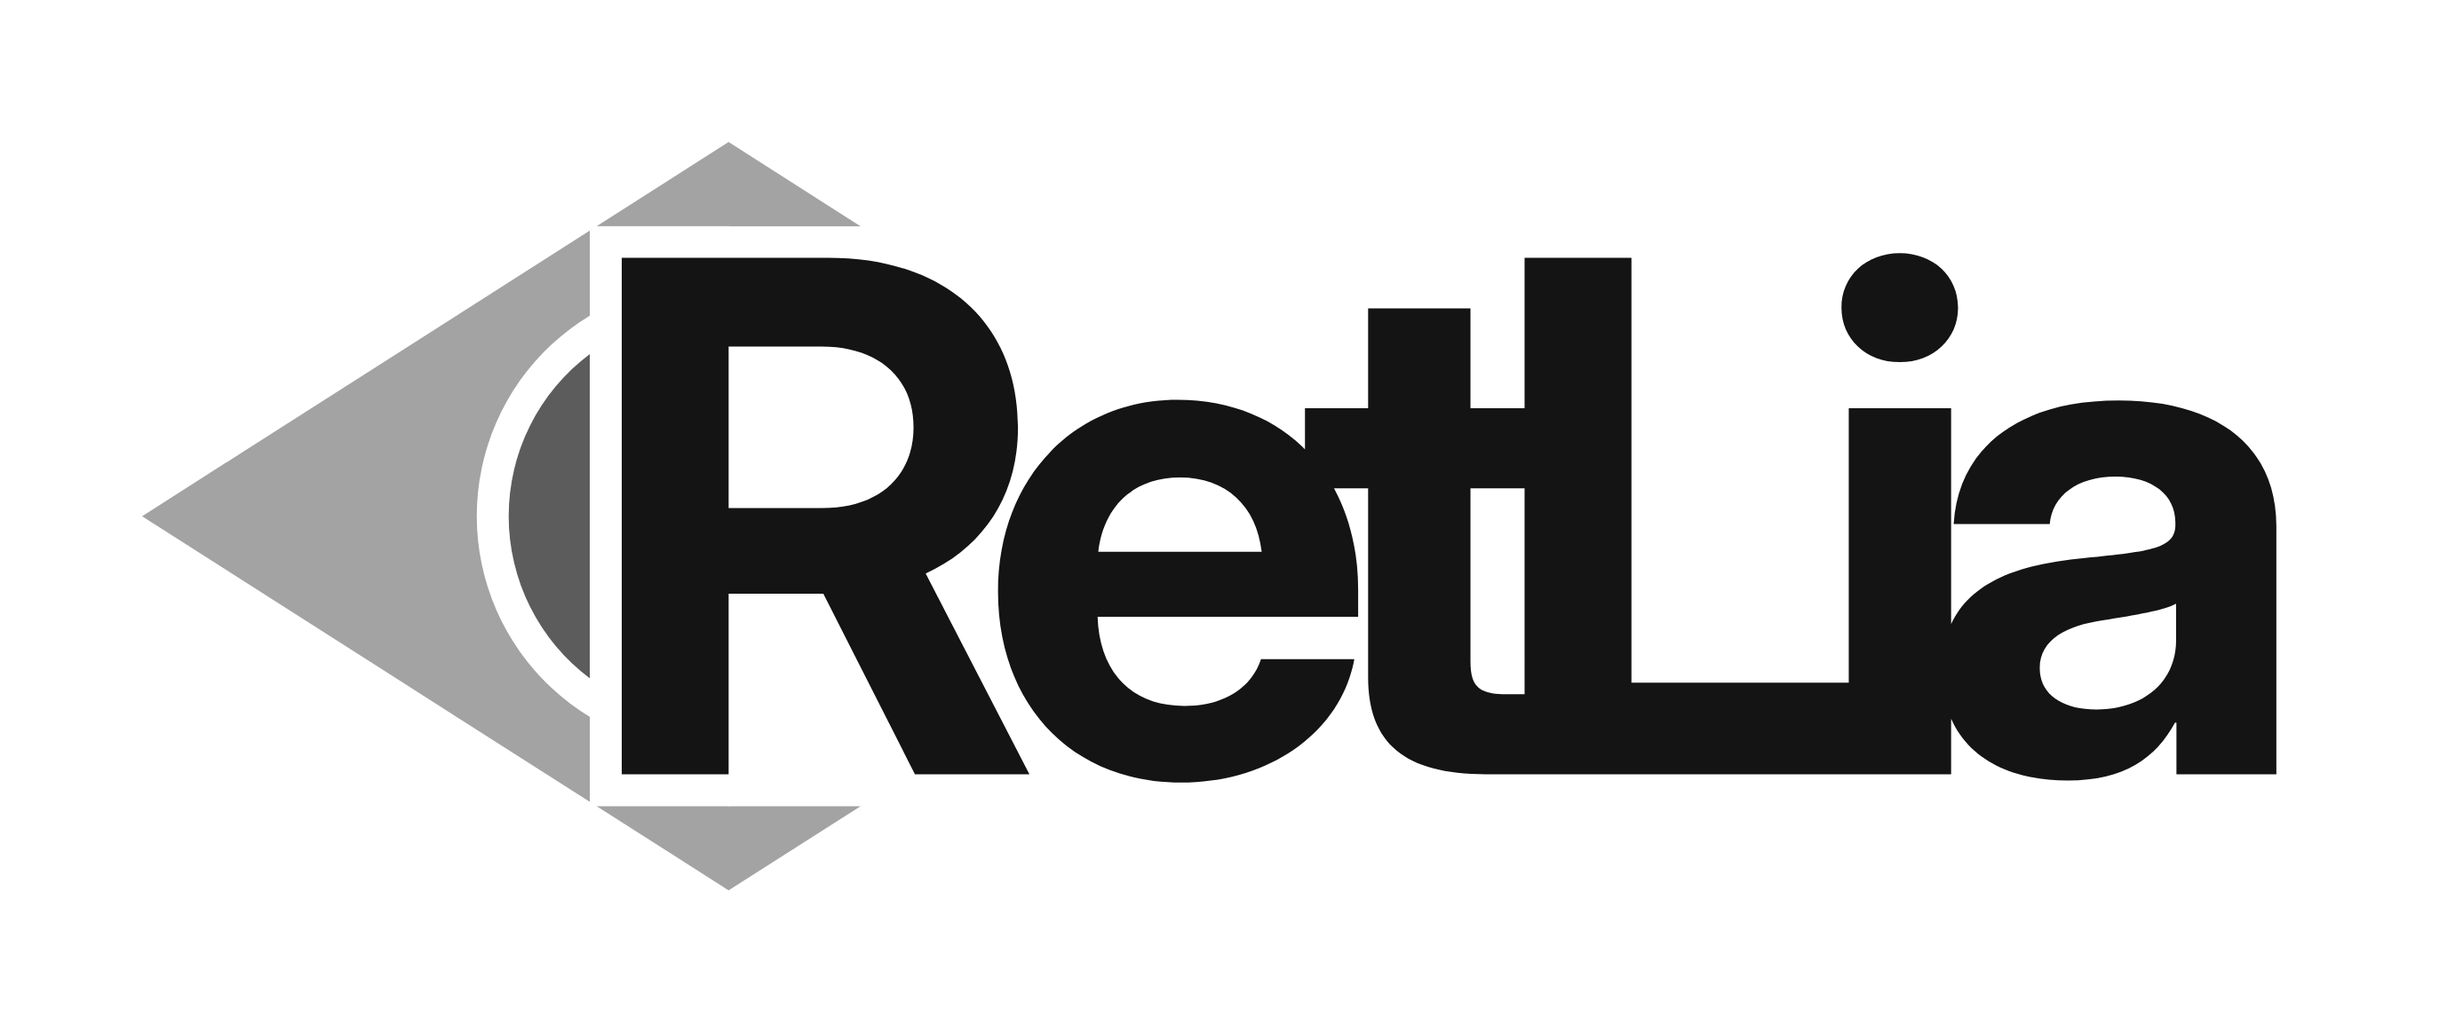
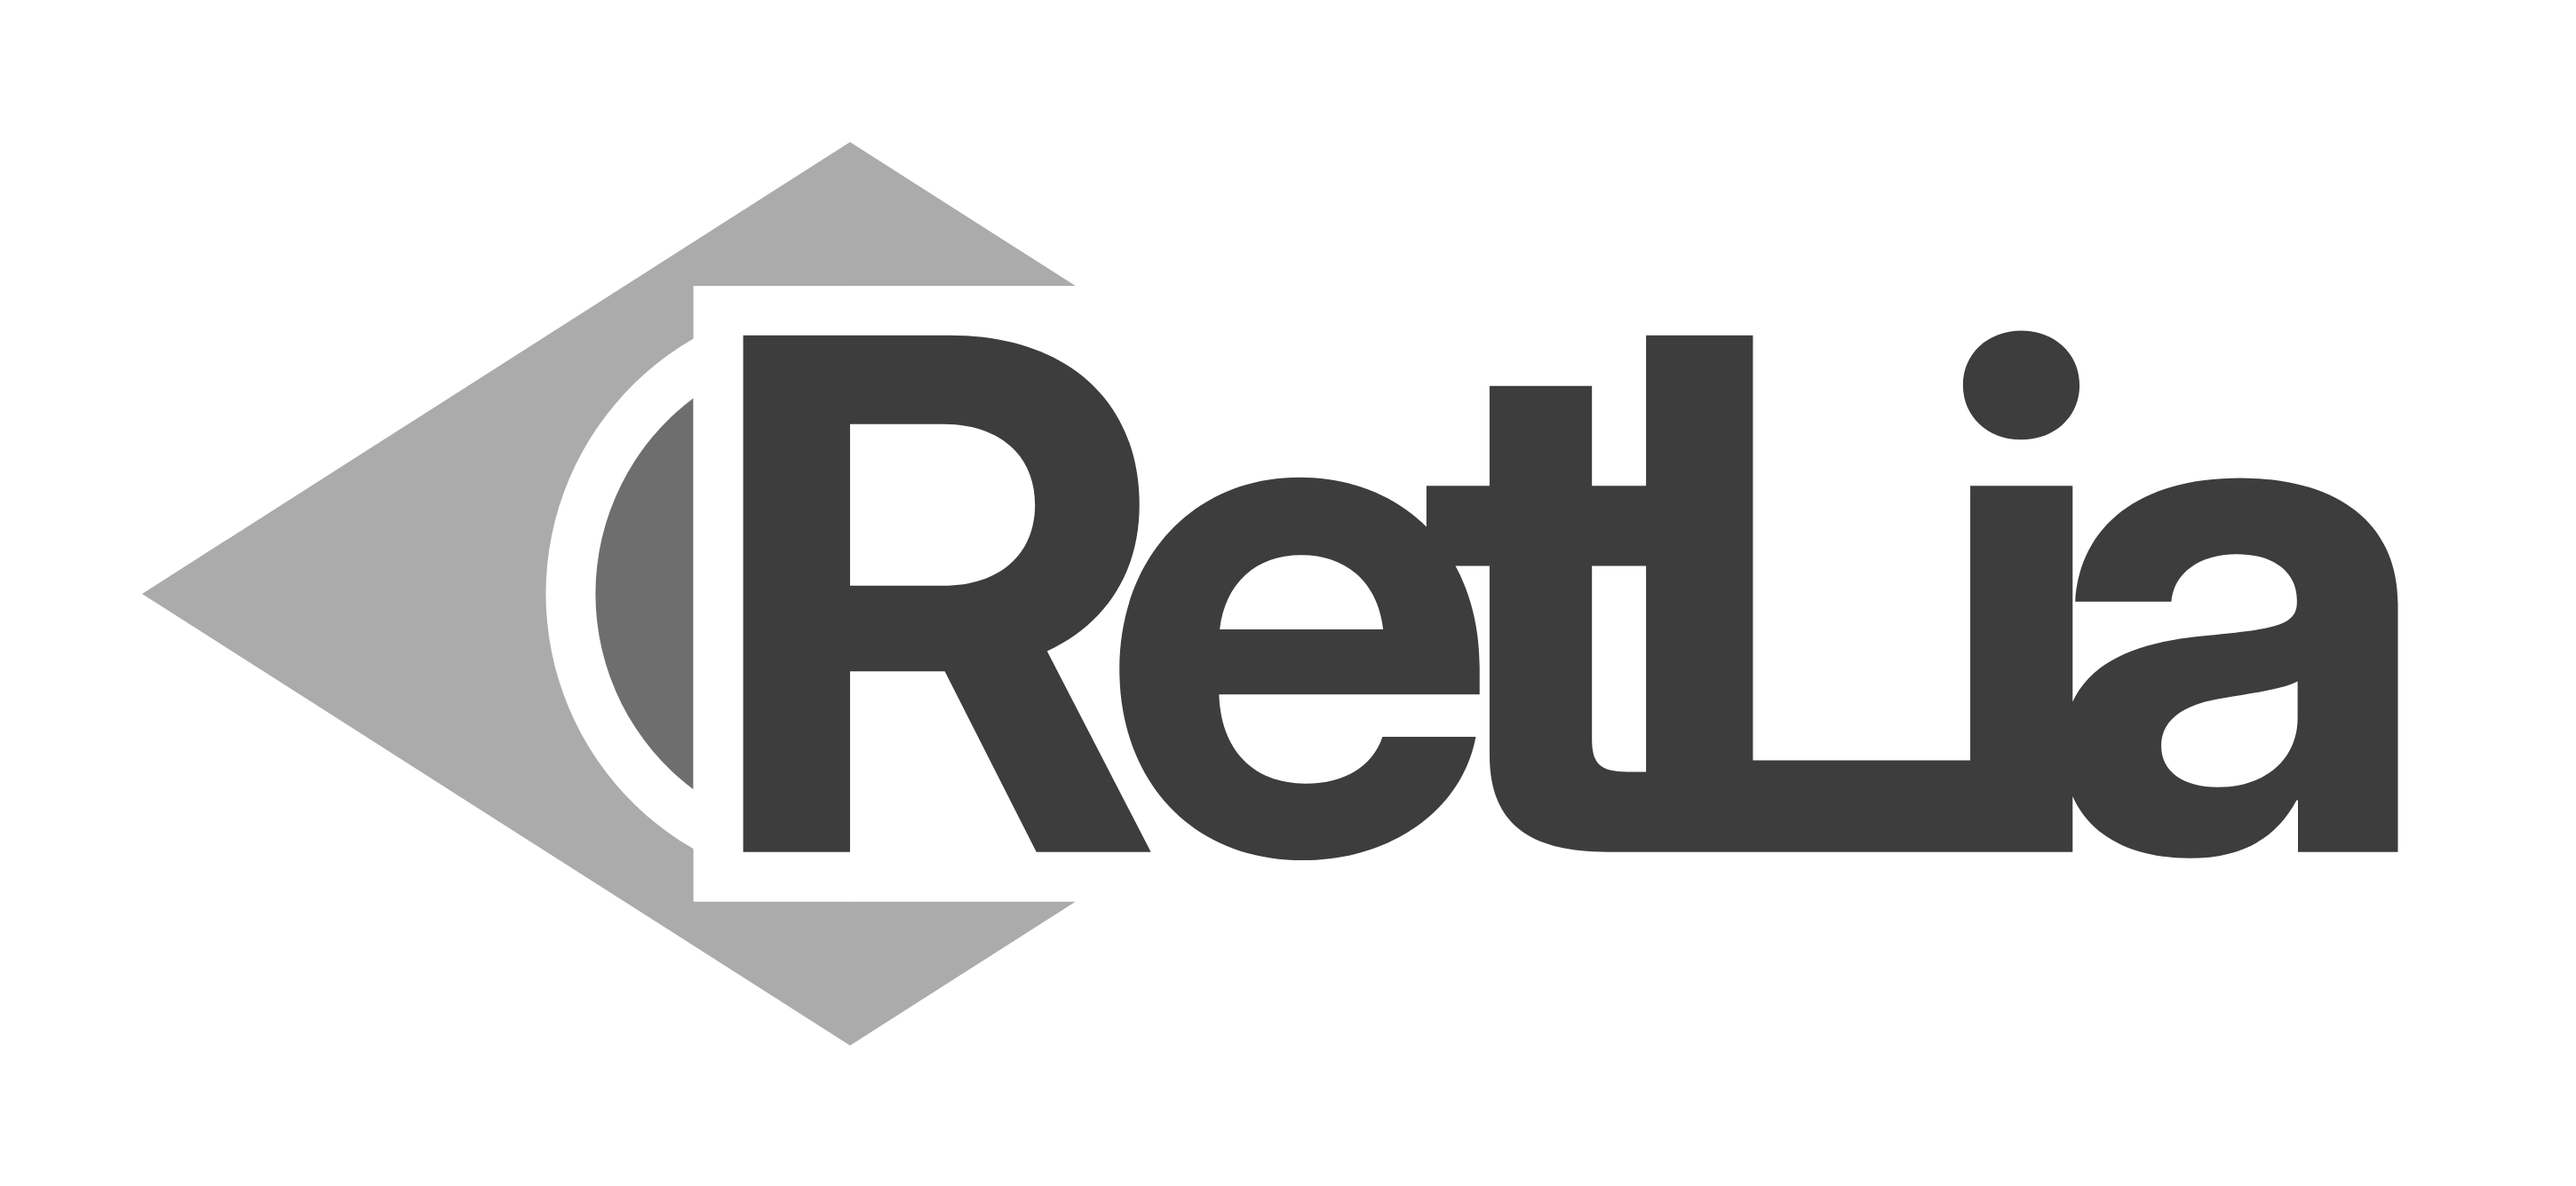
RetLia lateral: gray wordmark in gray versions, larger lozenge, wider white border
Claude-Session: https://claude.ai/code/session_01S4SgoPNwAJLDoX8PJdvnWV

diff --git a/brand/retlia/gerar.py b/brand/retlia/gerar.py
@@ -91,18 +91,18 @@ for p in glob.glob(OUT+"*.svg"):
 
 # --- Variante lateral: metade lateral do losango atrás do nome, com borda branca ---
 import math
-def lateral(dark=False, loz=None, ball=None):
+def lateral(dark=False, loz=None, ball=None, text=None):
     ink, paper = ("#fff", INK) if dark else (INK, "#fff")
-    loz=loz or ink; ball=ball or ink
+    loz=loz or ink; ball=ball or ink; text=text or ink
     pad=40
-    H=CAP*1.45                    # altura total do losango (metade lateral)
+    H=CAP*1.75                    # altura total do losango (metade lateral)
     W=H*8.3/10.6                  # metade da largura do losango
     top=pad; base_y=pad+(H-CAP)/2+CAP   # nome centrado na altura do símbolo
     x0=pad; cy=top+H/2
     f=TTFont(BOLD); gs=f.getGlyphSet(); sc=SIZE/f['head'].unitsPerEm
     bp=BoundsPen(gs); gs[f.getBestCmap()[ord("I")]].draw(bp); ix0,_,ix1,_=bp.bounds
     lsb=f['hmtx'][f.getBestCmap()[ord("R")]][1]*sc; stem=(ix1-ix0)*sc
-    border=SIZE*0.045
+    border=SIZE*0.07
     # ponta para a esquerda; o lado reto fica escondido atrás da haste do R
     flat=x0+W
     tx=flat-lsb-stem
@@ -131,13 +131,13 @@ def lateral(dark=False, loz=None, ball=None):
             f'<path d="{sym}" fill="{loz}"/><path d="{globe}" fill="{ball}"/>'
             # borda branca: recorte reto em volta da haste do R, quinas vivas
             f'<rect x="{r_left:.2f}" y="{base_y-CAP-border:.2f}" width="{flat+0.3-r_left:.2f}" height="{CAP+2*border:.2f}" fill="{paper}"/>'
-            f'<path d="{t}" fill="{ink}"/></svg>')
+            f'<path d="{t}" fill="{text}"/></svg>')
 
 open(OUT+"retlia-lateral.svg","w").write(lateral())
 open(OUT+"retlia-lateral-negativo.svg","w").write(lateral(True))
 # tons de cinza: nome no preto, losango no cinza médio, bola no cinza escuro
-open(OUT+"retlia-lateral-cinza.svg","w").write(lateral(loz="#A3A3A3", ball="#5C5C5C"))
-open(OUT+"retlia-lateral-cinza-negativo.svg","w").write(lateral(True, loz="#6B6B6B", ball="#B8B8B8"))
+open(OUT+"retlia-lateral-cinza.svg","w").write(lateral(loz="#ABABAB", ball="#6E6E6E", text="#3D3D3D"))
+open(OUT+"retlia-lateral-cinza-negativo.svg","w").write(lateral(True, loz="#5E5E5E", ball="#A6A6A6", text="#D6D6D6"))
 for p in glob.glob(OUT+"retlia-lateral*.svg"):
     svg=open(p).read()
     w,h=re.search(r'viewBox="0 0 (\S+) (\S+)"',svg).groups()
